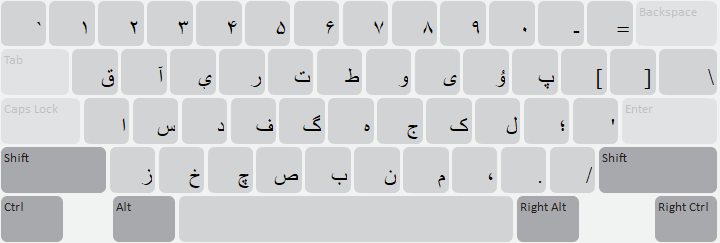
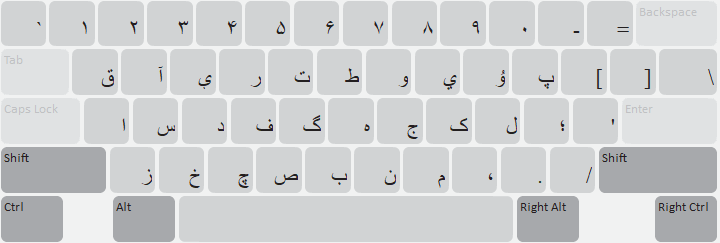
[pashai] Change output of i key

diff --git a/release/p/pashai/LICENSE.md b/release/p/pashai/LICENSE.md
@@ -1,6 +1,6 @@
 The MIT License (MIT)
 
-Copyright © 2024 SIL Global
+Copyright © 2024-2025 SIL Global
 
 Permission is hereby granted, free of charge, to any person obtaining a copy
 of this software and associated documentation files (the "Software"), to deal

diff --git a/release/p/pashai/HISTORY.md b/release/p/pashai/HISTORY.md
@@ -1,7 +1,11 @@
 Pashai Change History
 ====================
 
-3.0 (2024-12-12)
+1.1 (2025-04-10)
+----------------
+* Change output of "i" to produce U+064A (and not U+06CC)
+
+1.0 (2024-12-12)
 ----------------
 * Created by importing Pashai MSKLC keyboard.
 
